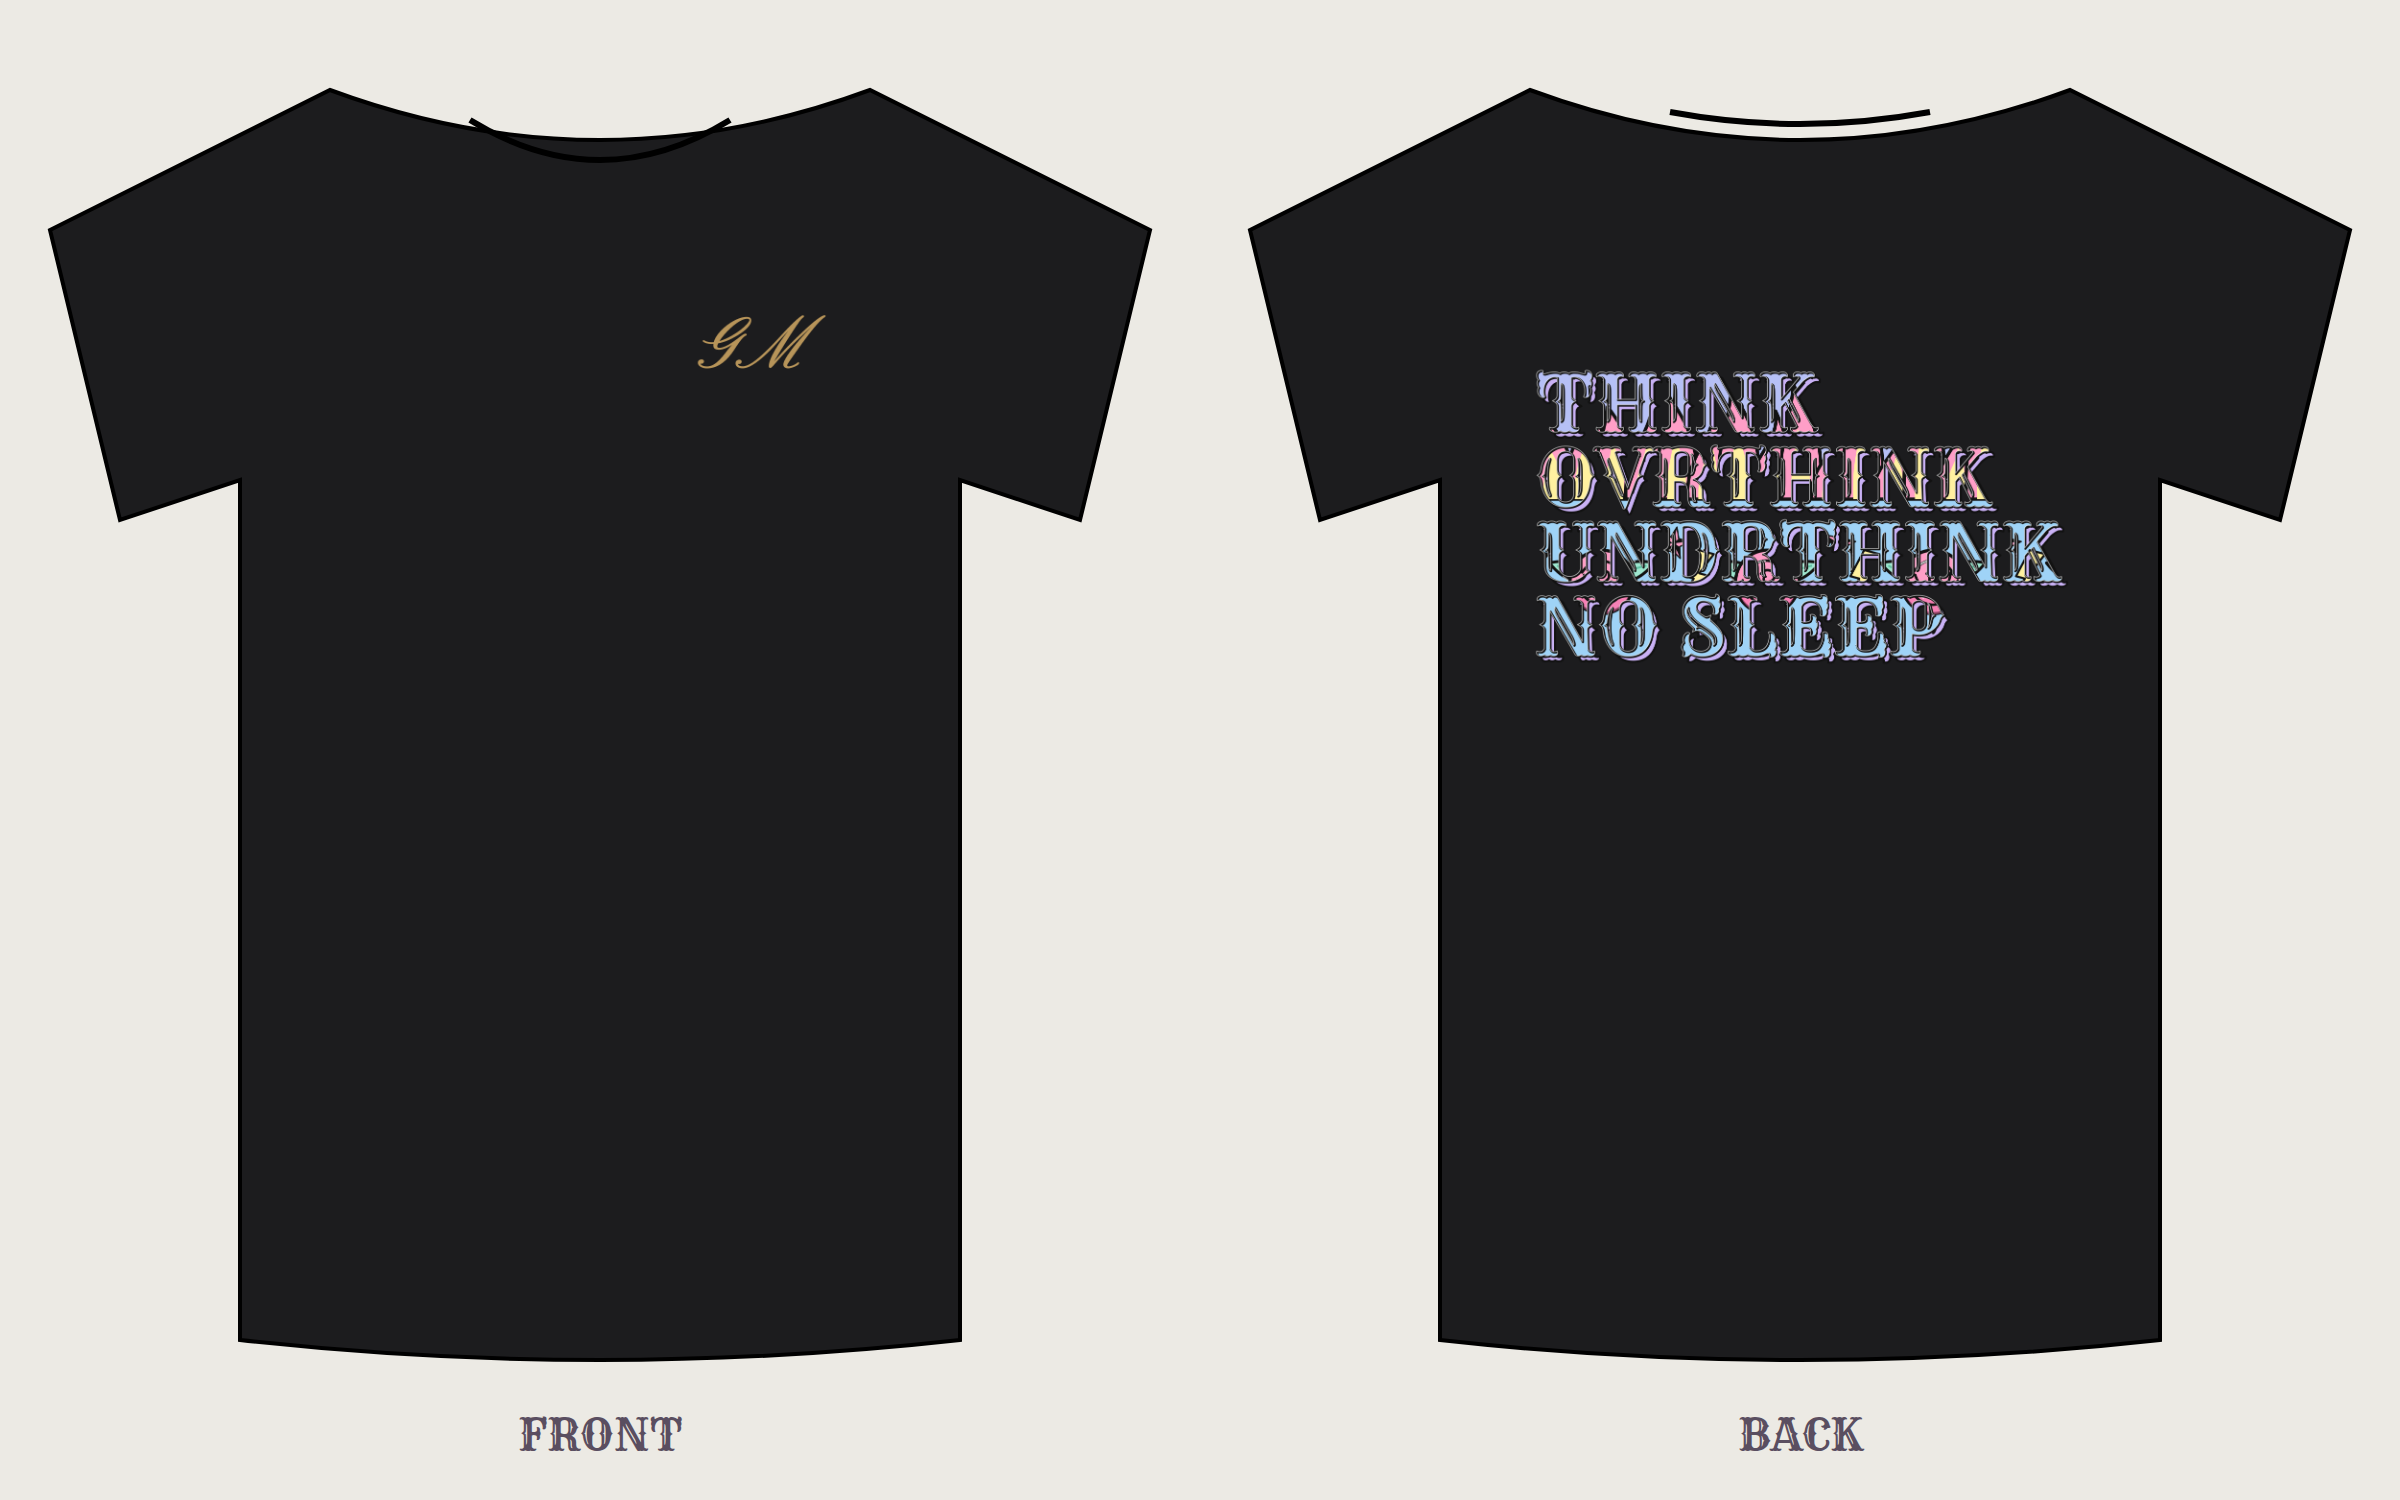
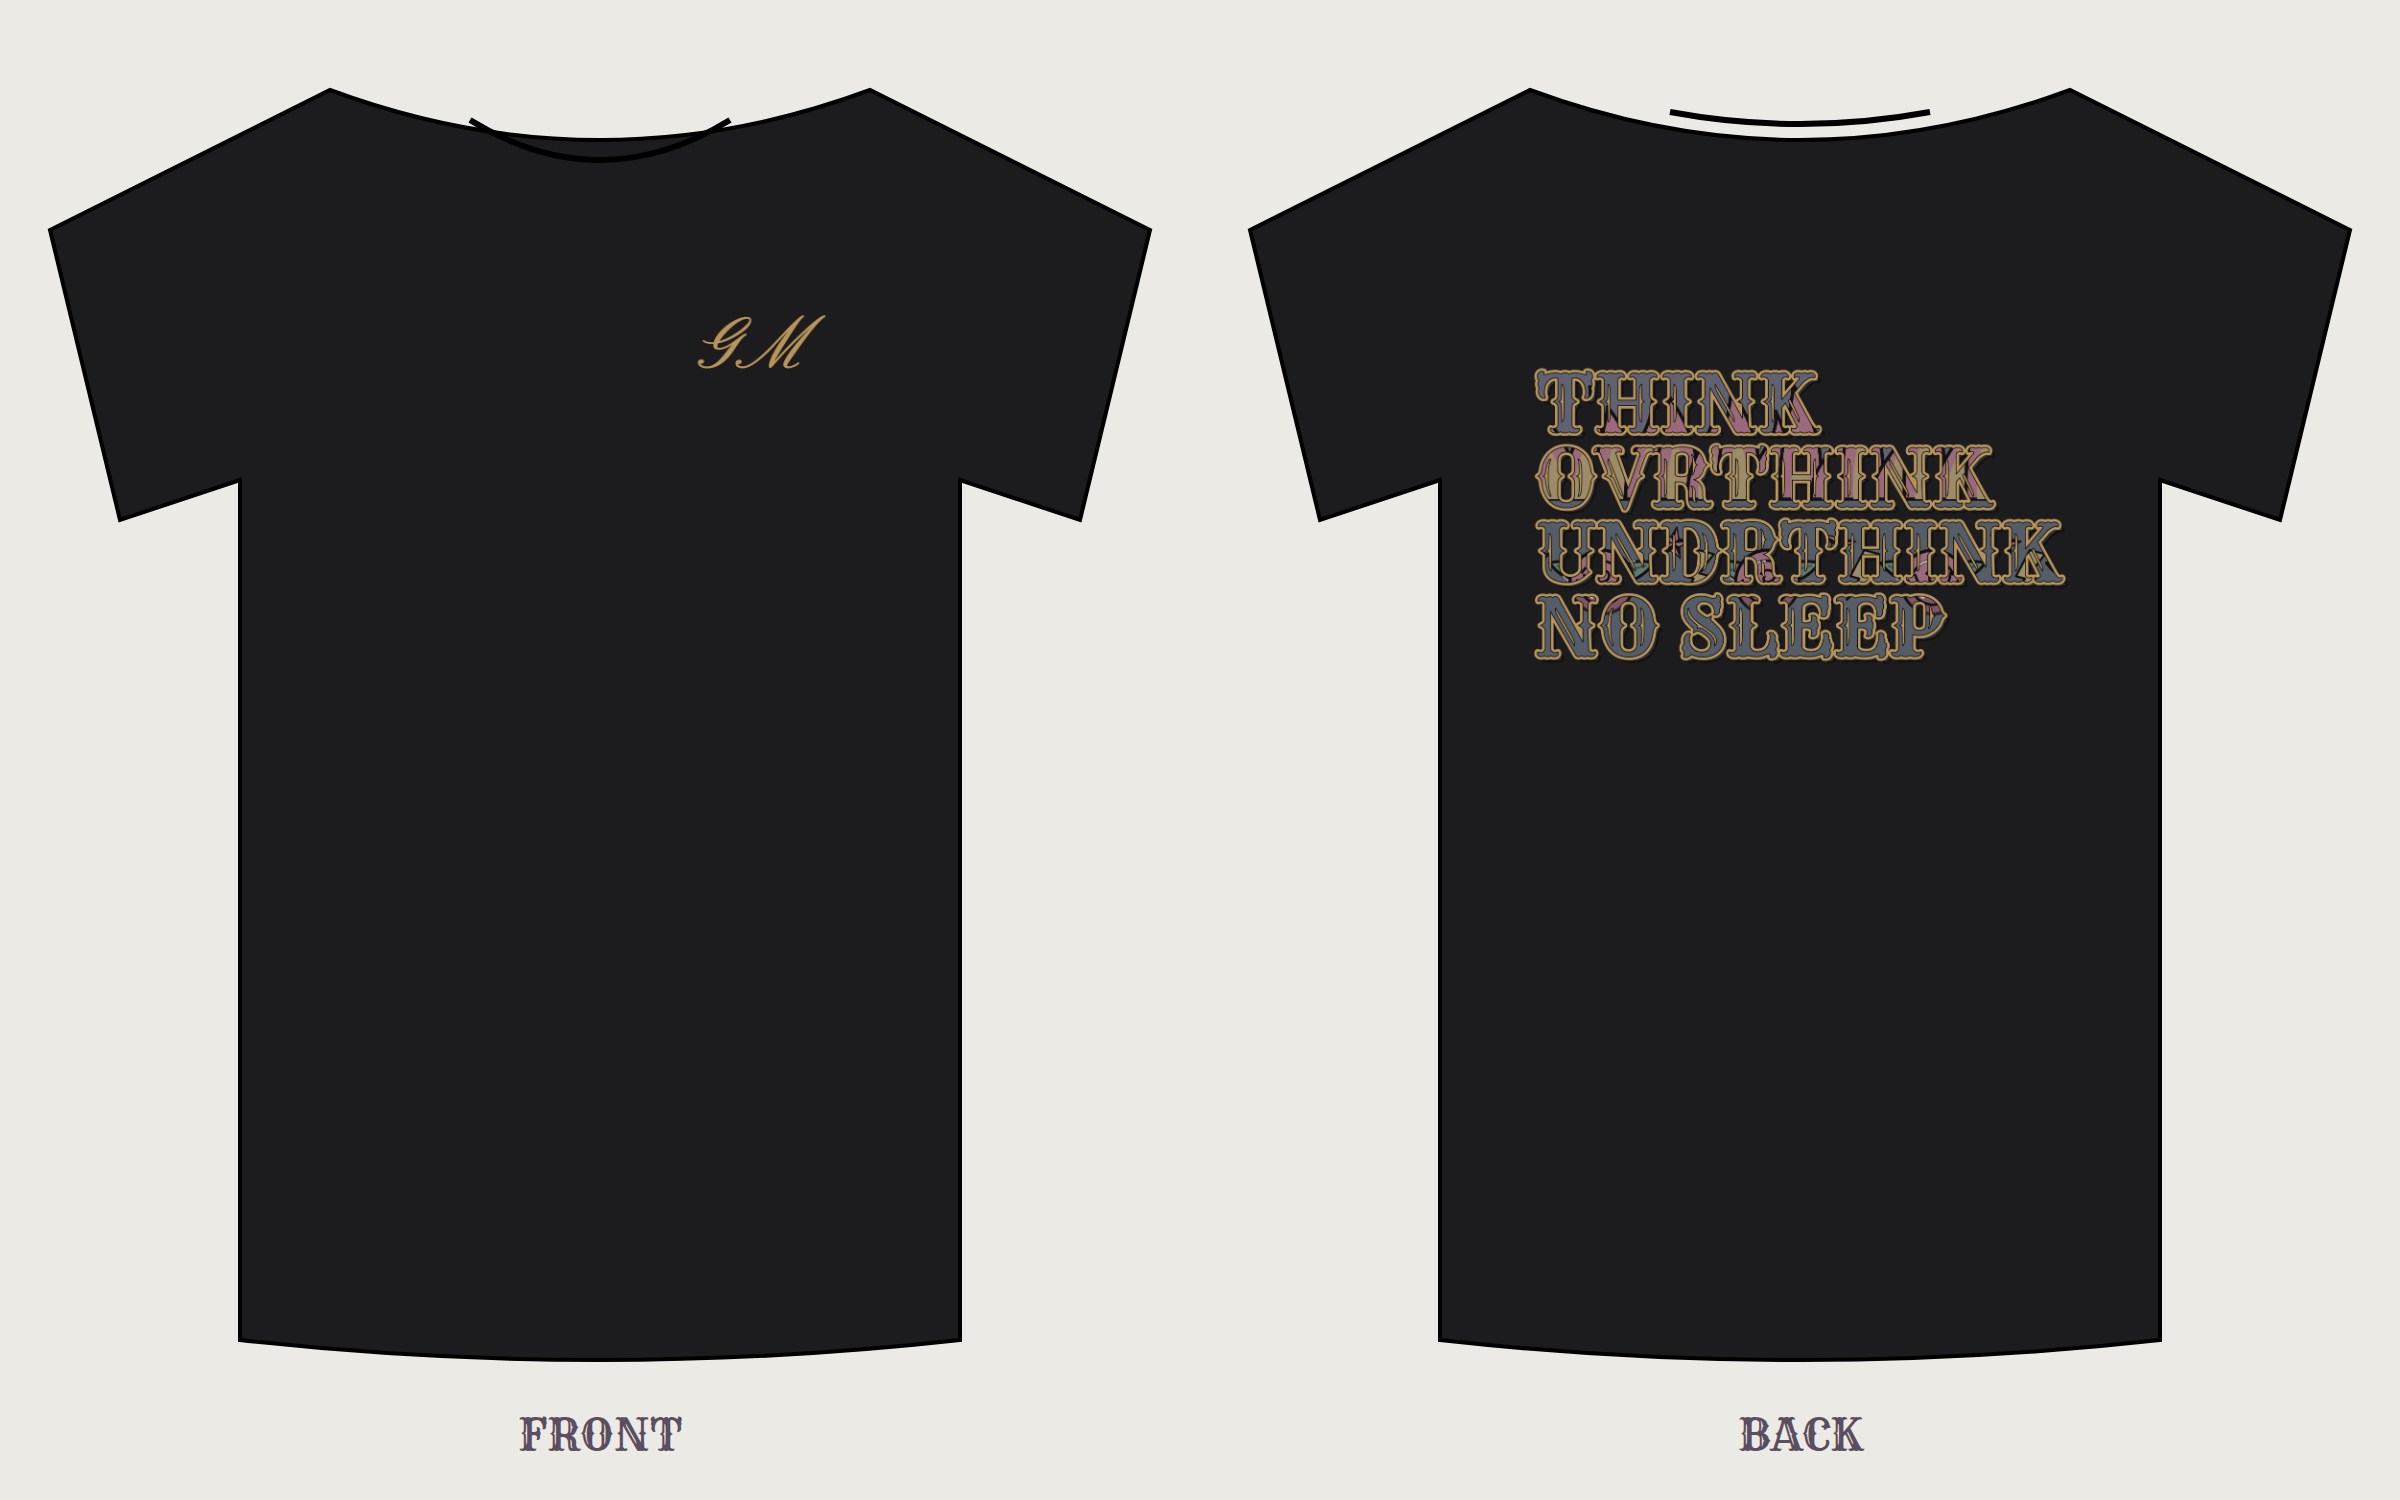
Series 01: matte-gold letter outlines and gunmetal tattoo fill
Back letters now have a bold matte-gold outline (drawn behind the fill so
inner details stay visible) and tattoo art in a darker gunmetal palette.
Front GM stays matte-gold script. README updated.

Claude-Session: https://claude.ai/code/session_01SBY6dR2H7LfBCYUkSdoXAH

Changed region(s): [[0.625, 0.2453, 0.875, 0.46]]

diff --git a/designs/series-01/README.md b/designs/series-01/README.md
@@ -4,7 +4,7 @@
 
 ![Front and back](../previews/series-01-front-back.jpg)
 
-Ten tees: a matte-gold script **GM** on the front left chest, and a stacked saying in the GiggleMe tattoo-ink style across the back at Printful's biggest back size. Every letter on a back is the same size, every line starts at the same left edge, and the block is centered top to bottom.
+Ten tees: a matte-gold script **GM** on the front left chest, and a stacked saying across the back at Printful's biggest back size. The back letters are filled with GiggleMe tattoo art in a darker gunmetal palette (gunmetal grey, dusty rose, smoky lavender, sage, muted brass) and boldly outlined in the same matte gold as the GM. Every letter on a back is the same size, every line starts at the same left edge, and the block is centered top to bottom.
 
 ## Files
 
@@ -14,7 +14,7 @@ Ten tees: a matte-gold script **GM** on the front left chest, and a stacked sayi
 | `<design>/back-print.png` | **Back**, oversize | 4500 × 5400 px · 15 × 18 in · 300 DPI |
 | `<design>/mockup.png` | Preview only | |
 
-The back letters carry their own black outline and colors, so they work on any shirt color. The gold GM shows best on **black, navy and charcoal**; on white or cream it reads softer.
+This gunmetal-and-gold look is made for **black, charcoal and navy** shirts. On white or cream the gold outline reads softer.
 
 ## Set it up in Printful
 
